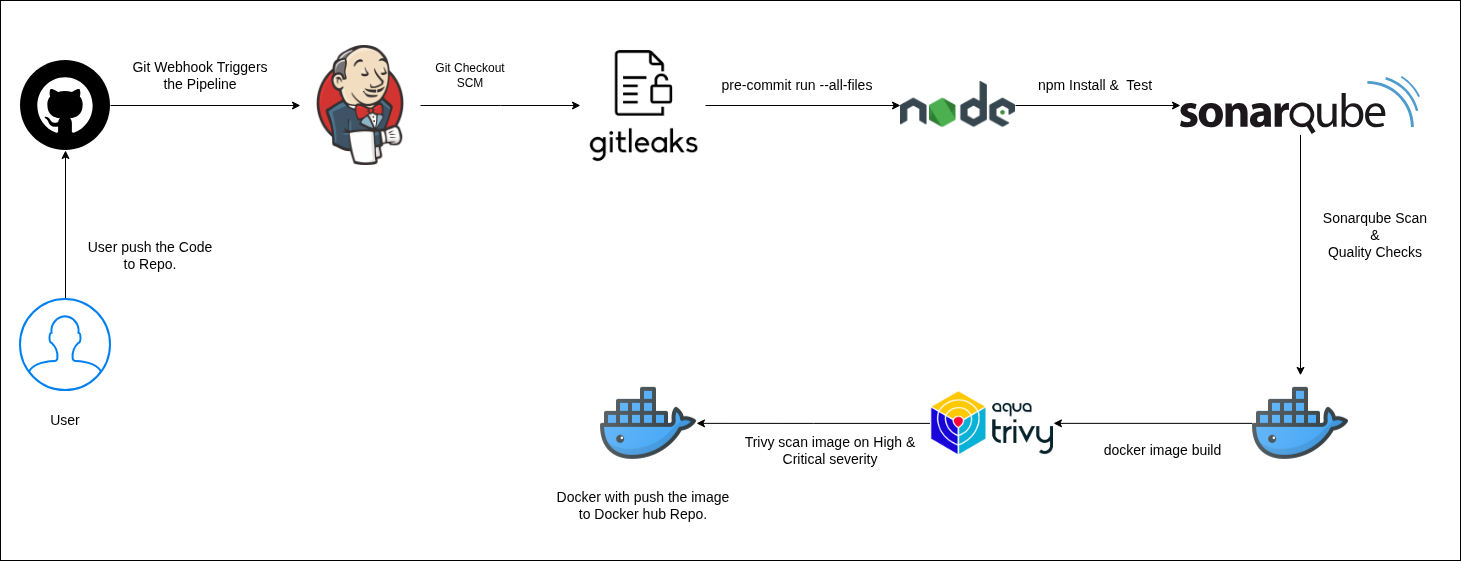
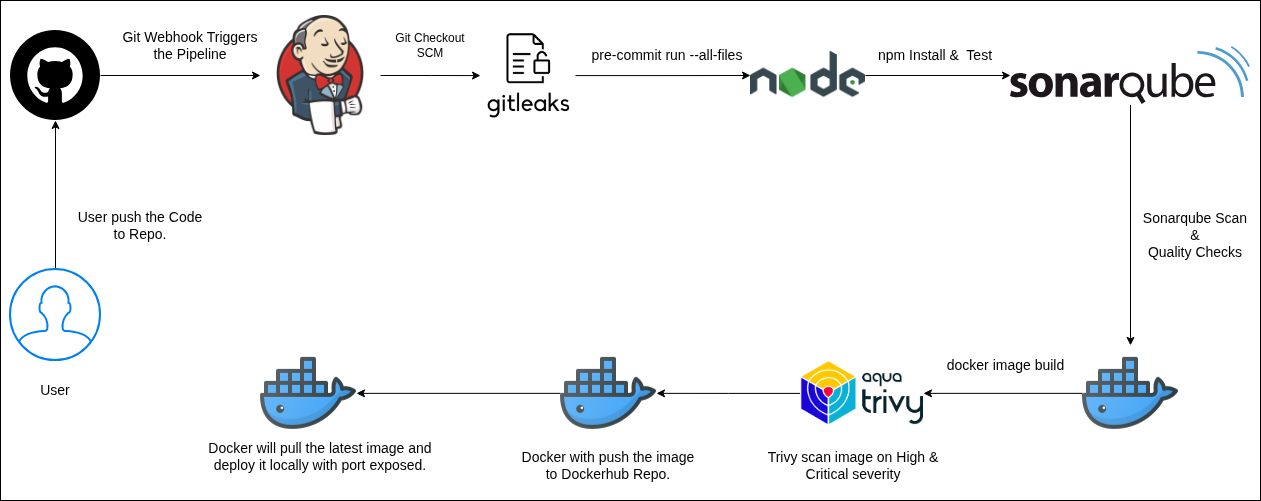
Deployment added & Files updated

diff --git a/README.md b/README.md
@@ -31,8 +31,8 @@ This project demonstrates how to combine:
 - 📤 Automatic DockerHub image push
 - 🧹 Post-build Docker cleanup
 
-## Jenkins CI Pipeline Architecture
-![CI Pipeline](/public/images/projects/Portfolio-Site.png)
+## Jenkins CI/CD Pipeline Architecture
+![CI/CD Pipeline](/public/images/projects/Portfolio-Site.png)
 
 ## Prerequisites
 Install the following tools on your local system:
